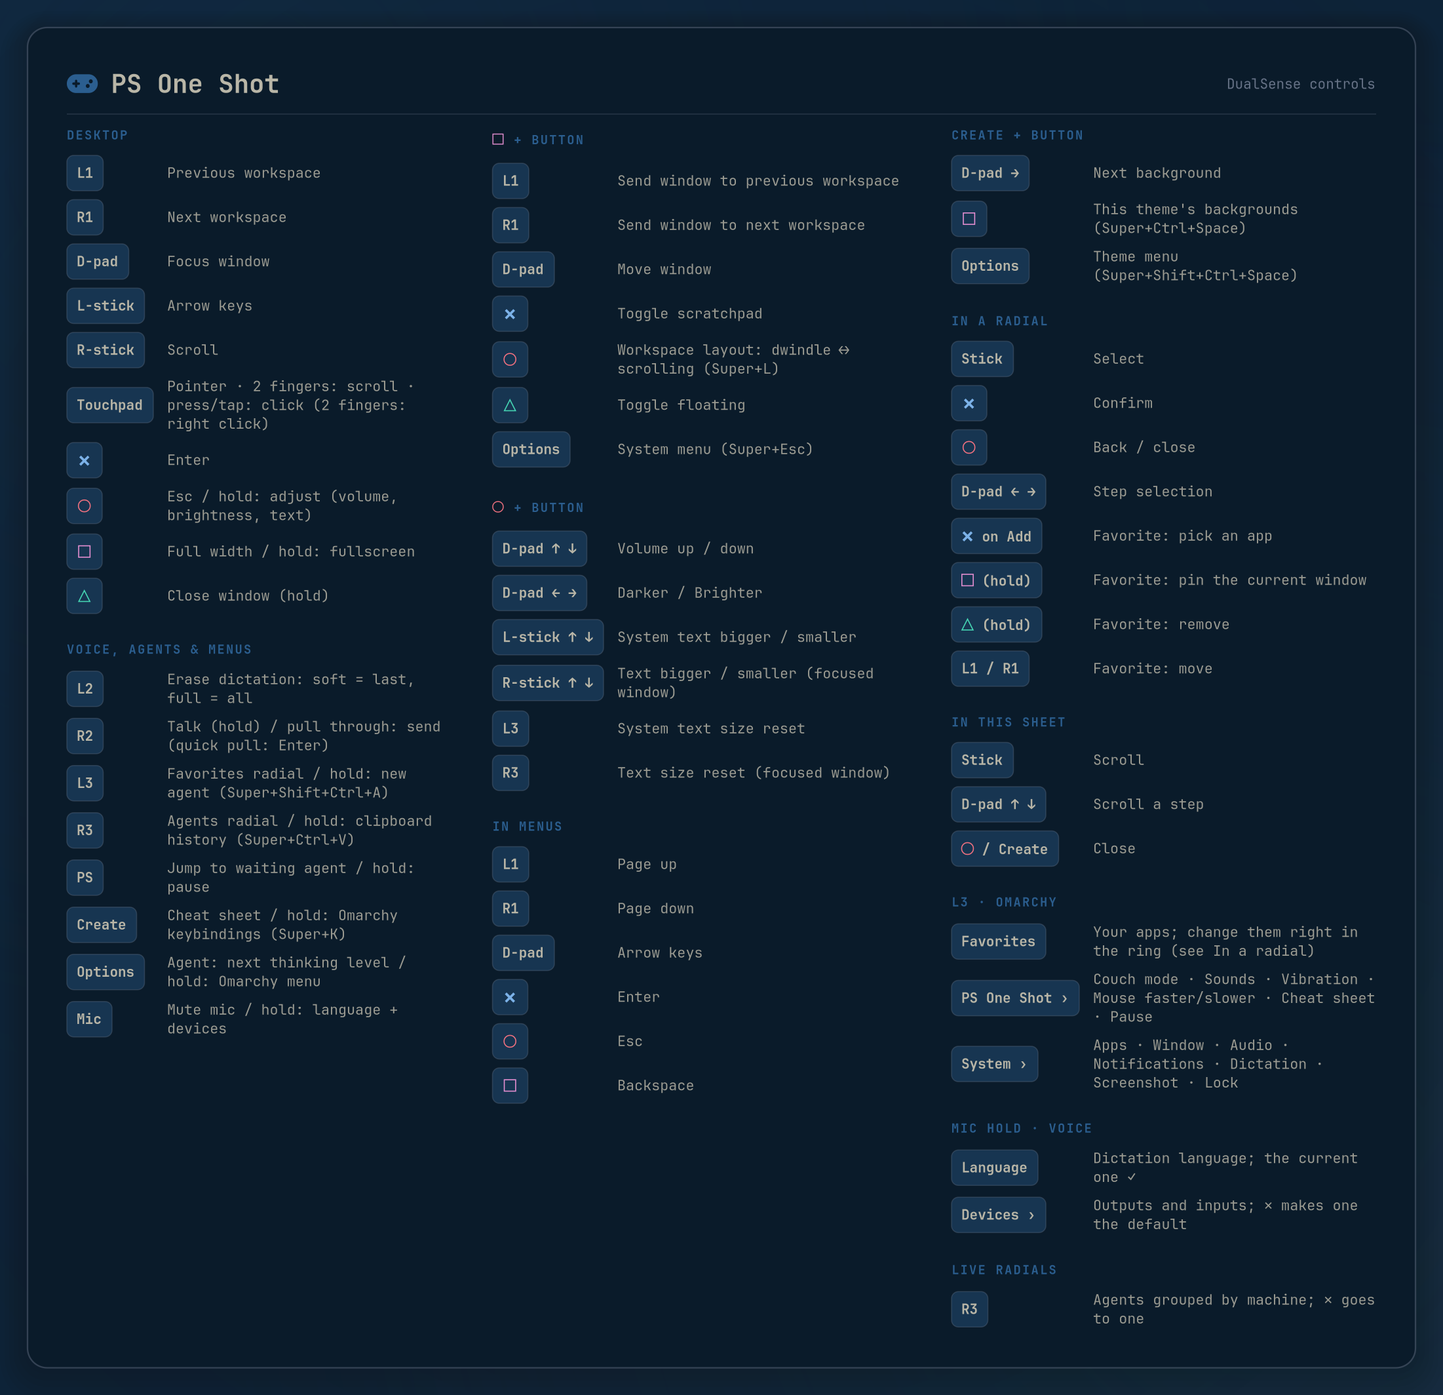
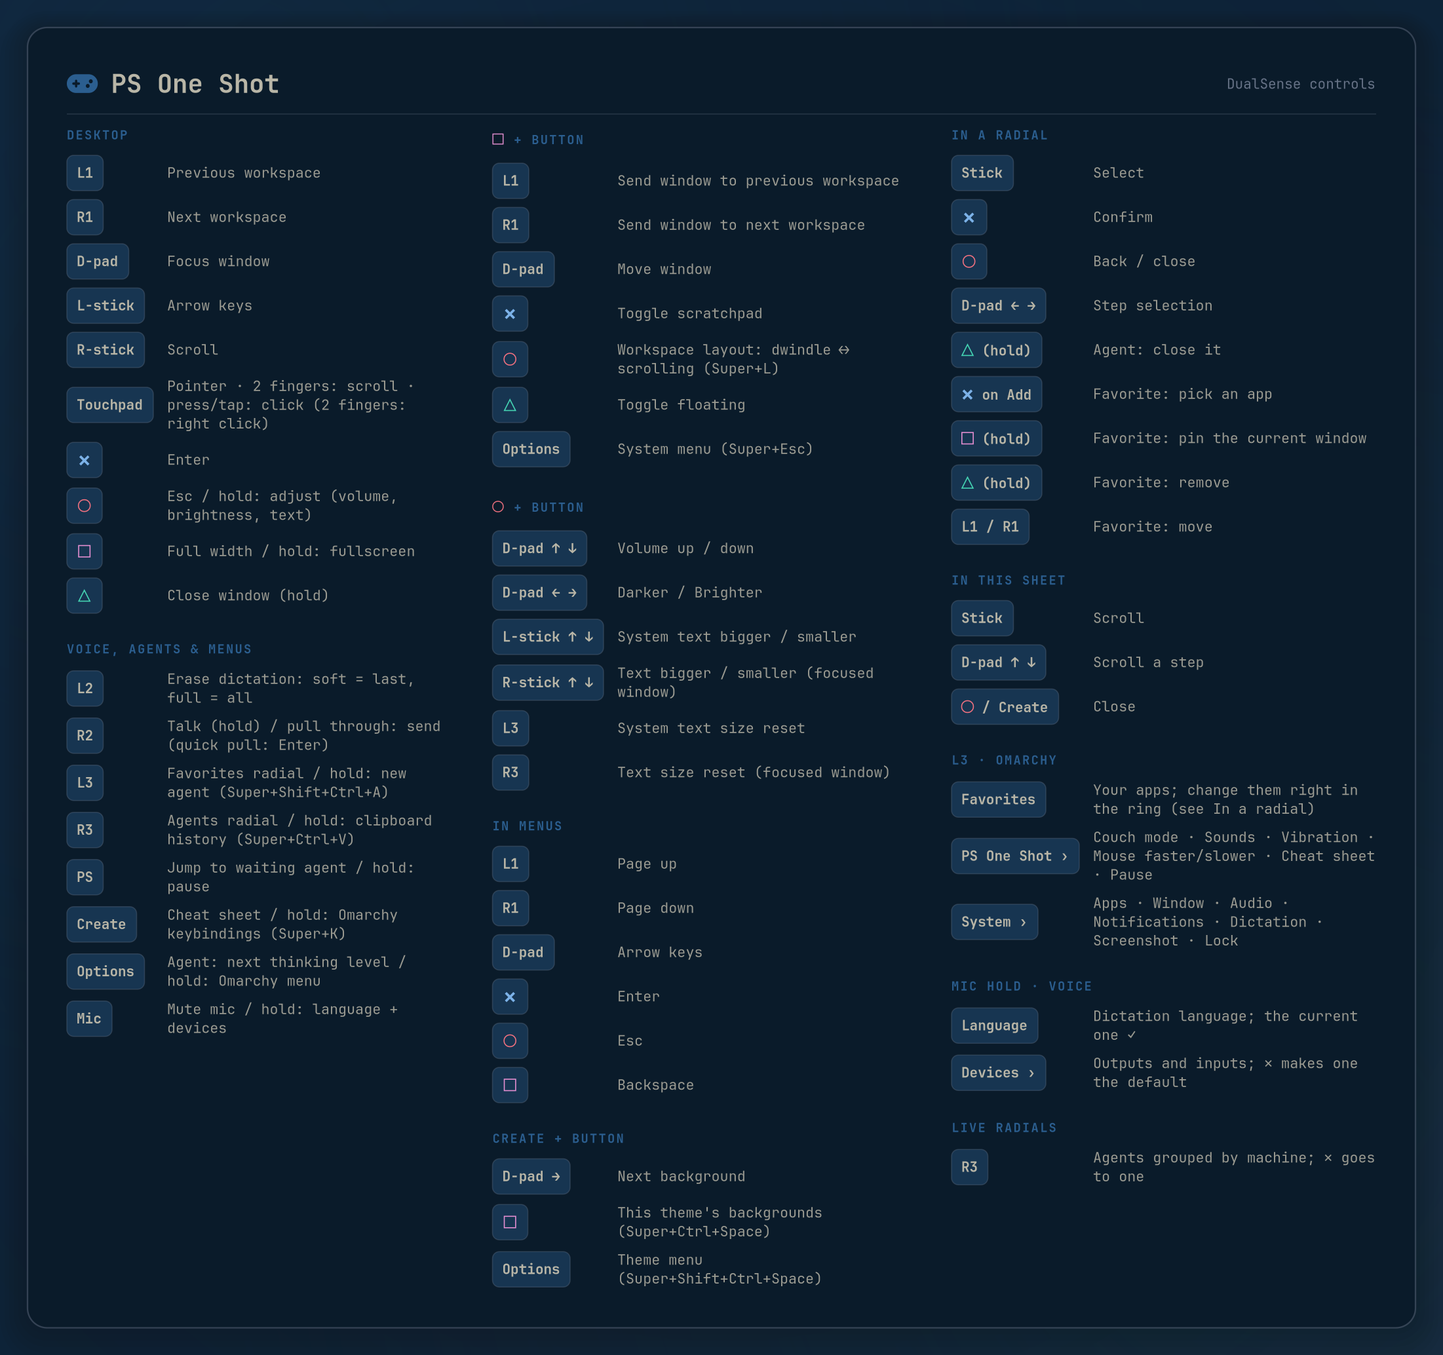
Hold △ on an agent in the R3 ring to close it
herdr pane close, locally or over ssh on Omaherd's connection master, with
the same hold-to-confirm hub as favorites. Also: -c with a missing config
file is an error instead of a silent fall-back to the defaults.

diff --git a/ps_oneshot/menus.py b/ps_oneshot/menus.py
@@ -5,6 +5,7 @@ from __future__ import annotations
 import logging
 from collections.abc import Callable
 from dataclasses import dataclass, replace
+from functools import partial
 
 from gi.repository import GLib
 
@@ -292,8 +293,8 @@ class RadialMenus:
             if chosen is not None:
                 self._activate(chosen)
         elif button in ("square", "triangle"):
-            if chosen is not None and chosen.favorite is not None:
-                self._start_hold(button, chosen.favorite, chosen.item.label)
+            if chosen is not None:
+                self._start_hold(button, chosen)
         elif button in ("l1", "r1"):
             if chosen is not None and chosen.favorite is not None:
                 self._move(chosen.favorite, -1 if button == "l1" else 1)
@@ -319,7 +320,10 @@ class RadialMenus:
             return [("Stick", "Choose"), back]
         if chosen.favorite is None:
             verb = "Open" if chosen.children or chosen.source else "Go to agent" if chosen.agent else "Select"
-            return [("✕", verb), back]
+            rows = [("✕", verb)]
+            if chosen.agent is not None and self.herd is not None:
+                rows.append(("△", "Hold: close agent"))
+            return [*rows, back]
         filled = self.favorites.slots[chosen.favorite] is not None
         rows = [("✕", "Open" if filled else "Pick an app")]
         verb = self._pin_verb(chosen.favorite)
@@ -354,7 +358,7 @@ class RadialMenus:
                 for source in {view.source, *(item.source for item in view.items if item.inline)} - {None}:
                     self.refresh_source(source)
 
-    # favorites ---------------------------------------------------------------------
+    # holds and favorites ---------------------------------------------------------
 
     def _pin_verb(self, index: int) -> str | None:
         """What holding □ on slot `index` does with the focused window's app: "put" it there, "move" it
@@ -366,31 +370,51 @@ class RadialMenus:
             return None
         return "move" if any(slot and slot["action"] == action for slot in self.favorites.slots) else "put"
 
-    def _start_hold(self, button: str, index: int, label: str) -> None:
-        """□ pins and △ removes only once held for input.hold_ms, so a stray press changes nothing.
-        Meanwhile the hub says what's about to happen and fills a ring."""
-        if button == "square":
-            verb, app = self._pin_verb(index), self._pin_app
-            hold = ("□", "Move here" if verb == "move" else "Pin here", app.name) if verb and app else None
-        else:
-            hold = ("△", "Remove", label) if self.favorites.slots[index] is not None else None
-        if hold is None:
+    def _start_hold(self, button: str, chosen: Slice) -> None:
+        """□ and △ act only once held for input.hold_ms, so a stray press changes nothing. Meanwhile the hub
+        says what's about to happen and fills a ring."""
+        plan = self._hold_plan(button, chosen)
+        if plan is None:
             self.hooks.rumble(fx.RUMBLE_NOTHING)
             return
+        (glyph, verb, name), finish = plan
         self._cancel_hold()
         ms = int(self.cfg.get("input", "hold_ms"))
-        self._hold = (button, GLib.timeout_add(ms, self._hold_done, button, index))
-        self.ui.set_hold(*hold, ms / 1000)
+        self._hold = (button, GLib.timeout_add(ms, self._hold_done, finish))
+        self.ui.set_hold(glyph, verb, name, ms / 1000)
 
-    def _hold_done(self, button: str, index: int) -> bool:
+    def _hold_plan(self, button: str, chosen: Slice) -> tuple[tuple[str, str, str], Callable[[], None]] | None:
+        """What holding `button` on the slice does: (glyph, verb, name) for the hub, and the action. On an
+        agent △ closes it; on a favorite □ pins the focused window's app there and △ empties the slot."""
+        if chosen.agent is not None:
+            if button == "triangle" and self.herd is not None:
+                return ("△", "Close", chosen.item.label), partial(self.herd.close, chosen.agent)
+            return None
+        if chosen.favorite is None:
+            return None
+        index = chosen.favorite
+        if button == "square":
+            verb, app = self._pin_verb(index), self._pin_app
+            if verb and app:
+                return ("□", "Move here" if verb == "move" else "Pin here", app.name), partial(self._pin, index, app)
+            return None
+        if self.favorites.slots[index] is not None:
+            return ("△", "Remove", chosen.item.label), partial(self._remove, index)
+        return None
+
+    def _pin(self, index: int, app: DesktopApp) -> None:
+        self.favorites.pin(index, app)
+        self._reload_favorites(index)
+
+    def _remove(self, index: int) -> None:
+        self.favorites.remove(index)
+        self._reload_favorites(index)
+
+    def _hold_done(self, finish: Callable[[], None]) -> bool:
         self._hold = None
         self.ui.clear_hold()
-        if button == "square" and self._pin_app is not None:
-            self.favorites.pin(index, self._pin_app)
-        elif button == "triangle":
-            self.favorites.remove(index)
         self.hooks.rumble(fx.RUMBLE_CONFIRM)
-        self._reload_favorites(index)
+        finish()
         return False
 
     def _cancel_hold(self) -> None:

diff --git a/ps_oneshot/herd.py b/ps_oneshot/herd.py
@@ -18,6 +18,8 @@ from dataclasses import dataclass
 
 from gi.repository import GLib
 
+from . import APP_NAME
+from .actions import spawn
 from .hypr import Hyprland
 
 log = logging.getLogger(__name__)
@@ -38,6 +40,10 @@ KIND_COLORS = {
 }
 HERDR_OPTIONS_WITH_VALUES = {"--session", "--remote", "--remote-keybindings"}
 HERDR_NONCLIENT_FLAGS = {"--no-session", "--default-config", "--skill", "--version", "-V", "--help", "-h"}
+# A non-interactive ssh shell often lacks the dirs herdr gets installed into.
+REMOTE_PATH = '"$HOME/.local/bin:$HOME/bin:$HOME/.local/share/mise/shims:$HOME/.nix-profile/bin:/usr/local/bin:$PATH"'
+# Omaherd's ssh connection masters (its status polling keeps one open per host): riding them is instant.
+OMAHERD_SSH = os.path.join(os.environ.get("XDG_RUNTIME_DIR", "/tmp"), "omaherd")
 
 
 @dataclass(frozen=True)
@@ -242,6 +248,28 @@ class HerdProvider:
         ]
         threading.Thread(target=self._focus_sequence, args=(command, agent), daemon=True).start()
 
+    def close(self, agent: Agent) -> None:
+        """Close the agent's herdr pane, which ends the agent, then show the list without it."""
+        if not agent.pane_id:
+            log.info("cannot close %s: no pane id", agent.key)
+            return
+        command = herdr_command(agent.host, agent.session, "pane", "close", agent.pane_id)
+        threading.Thread(target=self._close, args=(command, agent), daemon=True).start()
+
+    def _close(self, command: list[str], agent: Agent) -> None:
+        try:
+            result = subprocess.run(command, stdin=subprocess.DEVNULL, capture_output=True, text=True, timeout=10)
+            failure = (result.stderr or result.stdout).strip().splitlines()[-1:] if result.returncode else None
+        except (OSError, subprocess.TimeoutExpired) as error:
+            failure = [str(error)]
+        if failure is not None:
+            reason = failure[0] if failure else "herdr failed"
+            log.warning("closing %s failed: %s", agent.key, reason)
+            spawn(["notify-send", "-a", APP_NAME, "-t", "4000", f"Couldn't close {agent.project}: {reason}"])
+            return
+        log.info("closed %s on %s", agent.project, agent.machine)
+        GLib.idle_add(self._deliver, self._poll())  # gone from the ring now, not at the next poll
+
     def _focus_sequence(self, command: list[str], agent: Agent) -> None:
         try:
             clients = self._hypr.json("clients")
@@ -278,6 +306,19 @@ def _run_detached(command: list[str]) -> None:
         ).wait()
     except OSError as error:
         log.warning("cannot run %s: %s", command[0], error)
+
+
+def herdr_command(host: str, session: str, *args: str, timeout: int = 3) -> list[str]:
+    """`herdr --session <session> <args>` on the agent's machine: here, or over ssh for an SSH host (on
+    Omaherd's connection master when there is one)."""
+    herdr = ["herdr", "--session", session, *args]
+    if host == "local":
+        return herdr
+    options = ["-o", "BatchMode=yes", "-o", f"ConnectTimeout={timeout}"]
+    if os.path.isdir(OMAHERD_SSH):
+        options += ["-o", "ControlMaster=auto", "-o", f"ControlPath={OMAHERD_SSH}/ssh-%C", "-o", "ControlPersist=60"]
+    script = f"PATH={REMOTE_PATH}; export PATH; exec {shlex.join(herdr)}"
+    return ["ssh", *options, "--", host, f"exec /bin/sh -lc {shlex.quote(script)}"]
 
 
 def _option_value(command: list[str], option: str, default: str = "") -> str:

diff --git a/tests/test_features.py b/tests/test_features.py
@@ -1,5 +1,6 @@
 import json
 import os
+import shlex
 import tempfile
 import time
 import unittest
@@ -13,7 +14,7 @@ from ps_oneshot.apps import DesktopApp, app_for_window, window_of
 from ps_oneshot.config import MenuItem
 from ps_oneshot.dictation import DictationLog
 from ps_oneshot.favorites import Favorites, place, shift
-from ps_oneshot.herd import Agent, agent_in_window, by_machine, session_windows
+from ps_oneshot.herd import Agent, agent_in_window, by_machine, herdr_command, session_windows
 from ps_oneshot.labels import cheatsheet_rows, pair_text, radial_rows
 from ps_oneshot.menus import LOCAL_COLOR, machine_groups
 from ps_oneshot.couch import put_back_entries, take_entries
@@ -166,6 +167,17 @@ class MachineGroupingTest(unittest.TestCase):
             self.assertEqual(session_windows("local", "default", clients, proc), ["0x400", "0x100"])
             self.assertEqual(session_windows("main", "default", clients, proc), ["0x200"])
             self.assertEqual(session_windows("laptop", "default", clients, proc), [])
+
+    def test_herdr_runs_here_or_reaches_the_remote_shell_intact(self):
+        self.assertEqual(herdr_command("local", "default", "pane", "close", "w1:p1"),
+                         ["herdr", "--session", "default", "pane", "close", "w1:p1"])
+        command = herdr_command("main", "my session", "pane", "close", "w4:p10")
+        self.assertEqual(command[0], "ssh")
+        self.assertEqual(command[command.index("--") + 1], "main")
+        _exec, shell, flag, script = shlex.split(command[-1])  # what the remote login shell receives
+        self.assertEqual((shell, flag), ("/bin/sh", "-lc"))
+        self.assertEqual(shlex.split(script.split("; exec ", 1)[1]),
+                         ["herdr", "--session", "my session", "pane", "close", "w4:p10"])
 
 
 class CheatsheetRowsTest(unittest.TestCase):

diff --git a/tools/screenshots.py b/tools/screenshots.py
@@ -126,7 +126,7 @@ def main() -> int:
     os.makedirs(out, exist_ok=True)
     Gtk.init()
     theme = load_theme()
-    cfg = config.load("/nonexistent")  # the shipped defaults, not this machine's user config
+    cfg = config.load(os.devnull)  # the shipped defaults (an empty user file), not this machine's config
     pictures = {
         "favorites.png": ring(theme, "Omarchy", FAVORITES, 3, [
             ("✕", "Open"), ("□", "Hold: put Files here"), ("△", "Hold: remove"), ("L1 R1", "Move"), ("○", "Close"),
@@ -136,7 +136,7 @@ def main() -> int:
         ], hold=("□", "Pin here", "Files", 0.62)),
         "agents.png": ring(
             theme, "Agents", [s.item for s in agent_slices(agents(), cfg.section("lights"))], 0,
-            [("✕", "Go to agent"), ("○", "Close")],
+            [("✕", "Go to agent"), ("△", "Hold: close agent"), ("○", "Close")],
         ),
         "cheatsheet.png": cheat_sheet(theme, cfg),
     }

diff --git a/ps_oneshot/labels.py b/ps_oneshot/labels.py
@@ -190,7 +190,10 @@ def cheatsheet_sections(cfg: Config) -> list[Section]:
         if rest:
             sections.append(("Voice, agents & menus", cheatsheet_rows(rest, titles)))
     controls = [("Stick", "Select"), ("✕", "Confirm"), ("○", "Back / close"), ("D-pad ← →", "Step selection")]
-    if any(radial.source == "favorites" or uses_source(radial.items, "favorites") for radial in cfg.radials.values()):
+    radials = cfg.radials.values()
+    if any(radial.source == "herd" or uses_source(radial.items, "herd") for radial in radials):
+        controls.append(("△ (hold)", "Agent: close it"))
+    if any(radial.source == "favorites" or uses_source(radial.items, "favorites") for radial in radials):
         controls += [
             ("✕ on Add", "Favorite: pick an app"), ("□ (hold)", "Favorite: pin the current window"),
             ("△ (hold)", "Favorite: remove"), ("L1 / R1", "Favorite: move"),

diff --git a/ps_oneshot/config.py b/ps_oneshot/config.py
@@ -319,6 +319,10 @@ def _validate_item_actions(path: str, items: tuple[MenuItem, ...], radials: dict
 
 
 def load(path: str | None = None) -> Config:
+    """Defaults, preset, then `path` (default: the user config, which may be absent). A file named
+    explicitly has to exist: silently running on the defaults instead would match any DualSense."""
+    if path is not None and not os.path.exists(path):
+        raise ConfigError(f"{path}: no such file")
     path = path or USER_CONFIG
     raw = _default("base")
     sources = ["defaults/base.toml"]

diff --git a/AGENTS.md b/AGENTS.md
@@ -34,7 +34,7 @@ PS One Shot turns a Sony DualSense into a controller for Hyprland, with an Omarc
 - **Foot follows its config** (`terminals.FootFollower`, `[foot] follow`): a Gio monitor on the foot config directory sees `foot.ini`'s font size change and sends every open foot window the difference as Ctrl + KP_Add/KP_Subtract via `Hyprland.send_key` (`hl.dsp.send_key_state` with a `window`, down then up 15 ms later; keysym names, so layout-independent, and no focus change).
 - **Context sources**
   - `hypr.EventStream` (socket2): active window and layers, which drive menu mode, game auto-pause (`[game]`) and agent-window detection.
-  - `HerdProvider`: Omaherd JSON for lightbar alerts, the R3 radial and the PS jump. Going to an agent (`HerdProvider._focus_sequence`): `herd.session_windows` finds the windows holding a herdr client of that host/session (from `/proc`, walking up to a Hyprland client's pid; one-agent `agent attach` windows don't count). If there is one, the most recently used is raised and `omaherd-attach --focus --no-attach` switches the pane: without `--no-attach`, omaherd opens a one-agent terminal whenever several windows show other workspaces. With none, the pane is focused and `[herd] terminal` opens a whole client.
+  - `HerdProvider`: Omaherd JSON for lightbar alerts, the R3 radial and the PS jump. Going to an agent (`HerdProvider._focus_sequence`): `herd.session_windows` finds the windows holding a herdr client of that host/session (from `/proc`, walking up to a Hyprland client's pid; one-agent `agent attach` windows don't count). If there is one, the most recently used is raised and `omaherd-attach --focus --no-attach` switches the pane: without `--no-attach`, omaherd opens a one-agent terminal whenever several windows show other workspaces. With none, the pane is focused and `[herd] terminal` opens a whole client. Closing an agent (`HerdProvider.close`, △ held in the ring) runs `herdr pane close` through `herd.herdr_command`: local, or `ssh -- <host> exec /bin/sh -lc '…'` on Omaherd's connection master, then re-polls so the ring drops it.
   - `sources.MicMuteWatcher`: `pactl subscribe` → mic LED.
   - `dictation.CaptureWatcher`: VoxType `post_process` tee file → `DictationLog`, used for L2 undo.
   - VoxType state file: an R2 "shot" presses Enter only once it reads `idle`.
@@ -45,7 +45,7 @@ PS One Shot turns a Sony DualSense into a controller for Hyprland, with an Omarc
   - Sounds: `sounds.play`, synthesized WAVs played with `pw-play`.
 - **Radial menus:** `menus.RadialMenus` owns the view stack and calls back through `menus.Hooks`. Its live sources are `herd`, `audio`, `voxtype-language`, `settings` and `favorites`. Every selection change goes through `RadialMenus._sync`, which also sends `_legend` (what each button does on the selected slice) to the overlay's bottom-right panel (`RadialMenu.set_legend`).
 - **Favorites** (`favorites.Favorites`): slots saved as state key `favorites` (entries shaped like config items, `None` = empty), seeded from `[favorites] items` until the first edit. In an open ring, a favorites slice (`Slice.favorite` = slot index) takes:
-  - □ and △ only as holds of `input.hold_ms` (`_start_hold`): □ pins the focused window's app (`Favorites.candidate`, looked up when the ring is built), △ empties the slot. Meanwhile `RadialMenu.set_hold` shows what's about to happen in the hub and fills a ring in the button's colour. Release (`on_release`), another button or a selection change cancels.
+  - □ and △ only as holds of `input.hold_ms` (`_start_hold`, which asks `_hold_plan` what the button does on that slice; agent slices take △ = close too): □ pins the focused window's app (`Favorites.candidate`, looked up when the ring is built), △ empties the slot. Meanwhile `RadialMenu.set_hold` shows what's about to happen in the hub and fills a ring in the button's colour. Release (`on_release`), another button or a selection change cancels.
   - L1/R1 move the slot.
   - ✕ on an empty slot: the ring closes, `[favorites] picker` gets the choices on stdin, and the ring reopens with that slot selected.
   - Inline in a configured ring, edits rebuild it from `View.items`. App icons draw through `ui.radial.lookup_icon` (GTK icon theme → render node → cairo).
@@ -182,6 +182,9 @@ The live service doesn't grab the gamepad, so a test instance that matched the r
 - **Check for an open launcher first.** If a layer matching `[menu] namespaces` is open (Omarchy menu, walker, rofi…), the `menu` layer wins: □ becomes Backspace, ✕ Enter, the D-pad arrow keys, all typed into the user's window. Read `hyprctl layers -j` and abort if one is open.
 - **Rebind buttons an overlay would swallow too.** If the radial didn't open, its D-pad, □, △ and ○ fall through to the desktop layer: focus moves, the focused window is maximized, fullscreened or closed (□/△ holds), Escape is sent. After opening an overlay, assert it is up (`action radial:…` in this run's log and a `ps-oneshot` layer) before pressing anything else.
 - **Use a fresh unit name every run** (`ps1-test-$(date +%s)`). With a reused name, `journalctl -u` still holds the last run's "connected" line, so a wait for it returns before the new instance has the pad and the first presses are lost.
+- **Write the test config in the same step that starts the instance.** Without its `[devices]` match the instance attaches the user's real controller: every press doubles, and on stop it switches the real pad's adaptive triggers and lightbar off (restart `ps-oneshot` to put them back). `-c` with a missing file now exits 2 instead of falling back to the defaults; keep it that way.
+- **Wait while the user's own overlay is up** (a `ps-oneshot` layer before you start): they're using the pad.
+- **Never let a test touch real agents.** For the R3 ring, set `[herd] enabled = true`, a `status_command` script that prints made-up agents, and stub `herdr`/`ssh`/`attach` scripts first on `PATH` that only log their arguments; △ held on an agent really closes its pane otherwise.
 - **Never leave an overlay up.** The user's own pad can't close a radial or cheat sheet that a test instance opened. Stop the unit in a `finally` block, in the same step that opened the overlay.
 - **Keep side effects off the desktop.** Point `PATH` at a stub `notify-send`, use lone modifiers (`shift`, `ctrl`) as stand-in key combos, and aim `[couch] monitors` at a name that doesn't exist.
 

diff --git a/README.md b/README.md
@@ -61,7 +61,7 @@ L3 opens your favorites, R3 opens agents, holding the mic button opens voice. Pi
   - ✕ on an empty slot ("Add") picks from a list of every installed app (Omarchy's own menu, or any dmenu-style list).
   - Holding □ pins the app of the window you were in; holding △ empties a slot. While you hold, the centre names what's about to happen and a ring fills up; let go early and nothing changes.
   - L1/R1 move a favorite one slot.
-- **Agents** (R3) are grouped by machine: local agents first, then each SSH host, each with its own coloured arc and hostname. Every slice shows the project, its herdr tab (or task title) and a status badge. Going to an agent (here or with PS) brings up the herdr window already showing that session, the most recently used one if there are several, and switches it to the agent. A new terminal opens only when no window shows the session yet.
+- **Agents** (R3) are grouped by machine: local agents first, then each SSH host, each with its own coloured arc and hostname. Every slice shows the project, its herdr tab (or task title) and a status badge. Going to an agent (here or with PS) brings up the herdr window already showing that session, the most recently used one if there are several, and switches it to the agent. A new terminal opens only when no window shows the session yet. Holding △ on an agent closes it: its herdr pane, here or on the SSH host. As with favorites, the centre names the agent while a ring fills up, and letting go early changes nothing.
 - **Voice** (hold the mic button) puts the dictation languages straight on the ring (the current one checked) plus a Devices submenu with every output and input; picking a device makes it the default and moves playing streams.
 - **PS One Shot** (L3) holds the app's own switches: couch mode, sound effects and vibration on/off (icon, ✓ and on/off show the current state), touchpad pointer slower/faster, the cheat sheet and pause. Toggles and the speed stay open for another press and are remembered across restarts. Vibration off silences every rumble and the shot's trigger kick; the triggers' resistance stays.
 
